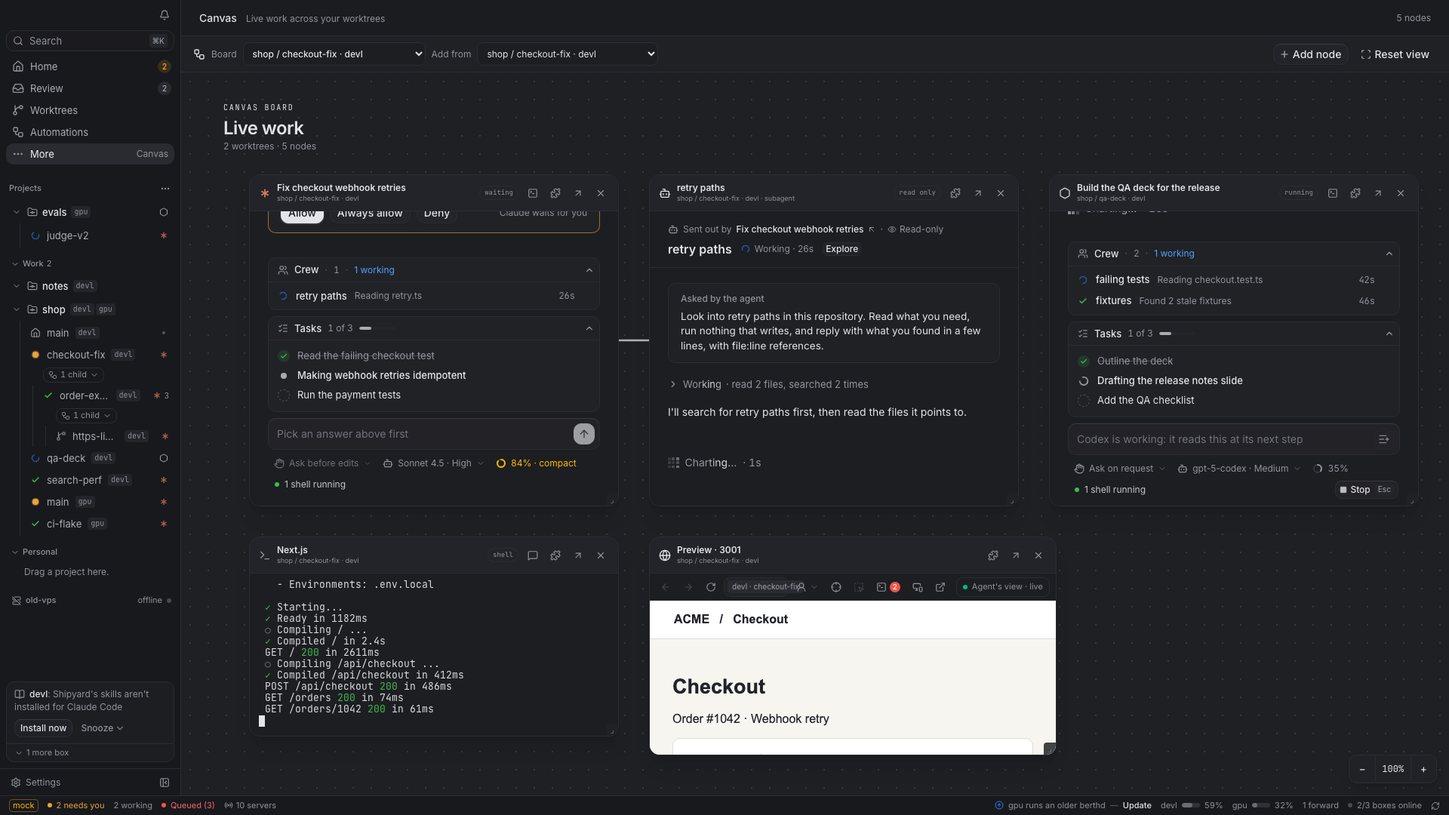
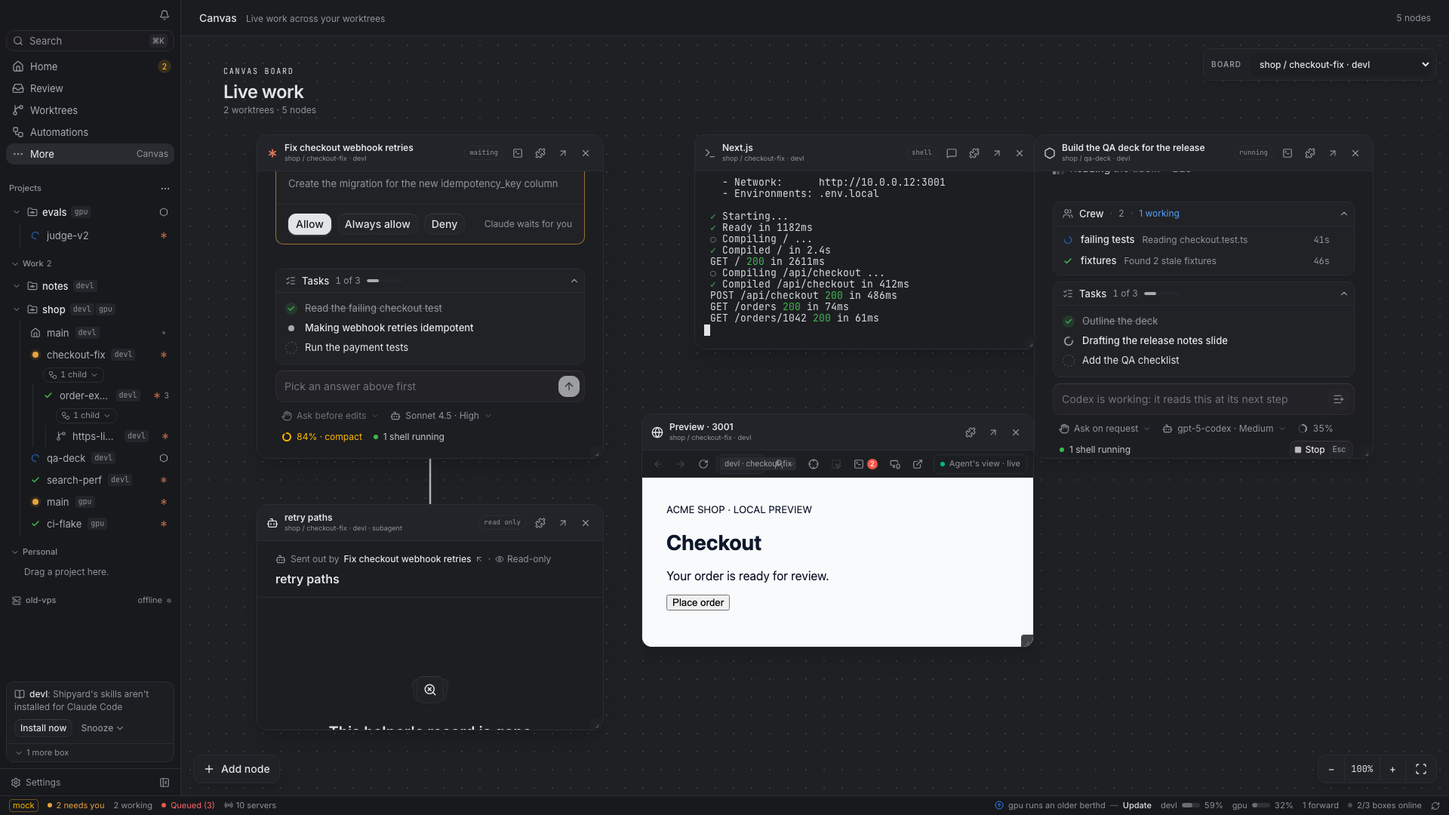
fix(app): keep zoomed canvas chats visible when resized

diff --git a/plugins/canvas/src/index.tsx b/plugins/canvas/src/index.tsx
@@ -1,6 +1,6 @@
 import { definePlugin, useBoxes, useCurrentWorktree, useEvent, useFleetSessions, useStorage, type CurrentWorktree, type ScreenProps, type Service, type Session } from "@berth/plugin";
-import { AgentIcon, BrowserSurface, Button, HelperSurface, Icon, Menu, MenuItem, MenuPopup, MenuSeparator, MenuTrigger, SessionSurface, ViewHeader } from "@berth/plugin/ui";
-import { useEffect, useMemo, useRef, useState, type PointerEvent as ReactPointerEvent } from "react";
+import { AgentIcon, BrowserSurface, Button, HelperSurface, Icon, SessionSurface, ViewHeader } from "@berth/plugin/ui";
+import { useEffect, useMemo, useRef, useState, type PointerEvent as ReactPointerEvent, type WheelEvent as ReactWheelEvent } from "react";
 
 const MIN_ZOOM = 0.55;
 const MAX_ZOOM = 1.5;
@@ -14,6 +14,7 @@ type Link = { from: string; to: string };
 type Board = { nodes: Node[]; links: Link[] };
 type Worktree = CurrentWorktree;
 type Gesture = { id: string; kind: "move" | "resize"; x: number; y: number; node: Node };
+type Picker = { x: number; y: number; at?: { x: number; y: number } };
 
 const keyOf = (w: Worktree) => `${w.box}:${w.path}`;
 const sessionId = (box: string, session: string) => `session:${box}:${session}`;
@@ -50,6 +51,12 @@ function CanvasScreen({ berth }: ScreenProps) {
   const [stamp, setStamp] = useState(0);
   const [savedKey, setSavedKey] = useStorage("selected-worktree", "");
   const [sourceKey, setSourceKey] = useState("");
+  const [picker, setPicker] = useState<Picker>();
+  const [query, setQuery] = useState("");
+  const search = useRef<HTMLInputElement>(null);
+  const spaceDown = useRef(false);
+  const pointerOver = useRef(false);
+  const [spaceHeld, setSpaceHeld] = useState(false);
   const [boards, setBoards] = useStorage<Record<string, Board>>("boards", {});
   const [zoom, setZoom] = useState(1);
   const [pan, setPan] = useState({ x: 0, y: 0 });
@@ -132,12 +139,14 @@ function CanvasScreen({ berth }: ScreenProps) {
     if (linkFrom === id) setLinkFrom(undefined);
   };
   const add = (node: Node) => {
-    if (boardRef.current.nodes.some((n) => n.id === node.id)) { setSelectedNode(node.id); return; }
+    if (boardRef.current.nodes.some((n) => n.id === node.id)) { setSelectedNode(node.id); setPicker(undefined); return; }
     const centerX = (viewport.current?.clientWidth ?? 1100) / 2;
     const centerY = (viewport.current?.clientHeight ?? 700) / 2;
     const offset = boardRef.current.nodes.length % 4 * 34;
-    save({ ...boardRef.current, nodes: [...boardRef.current.nodes, { ...node, x: Math.round((centerX - pan.x) / zoom - node.w / 2 + offset), y: Math.round((centerY - pan.y) / zoom - node.h / 2 + offset) }] });
+    const at = picker?.at;
+    save({ ...boardRef.current, nodes: [...boardRef.current.nodes, { ...node, x: Math.round(at ? at.x - node.w / 2 : (centerX - pan.x) / zoom - node.w / 2 + offset), y: Math.round(at ? at.y - 24 : (centerY - pan.y) / zoom - node.h / 2 + offset) }] });
     setSelectedNode(node.id);
+    setPicker(undefined);
   };
   const addSession = (s: Session, source: Worktree) => add({ id: sessionId(source.box, s.name), kind: "session", box: source.box, source, session: s.name, agent: s.agent, mode: s.agent ? "chat" : "terminal", x: 0, y: 0, w: 480, h: 460 });
   const addPreview = (svc: Service, source: Worktree) => add({ id: previewId(source.box, svc.port), kind: "preview", box: source.box, source, port: svc.port, x: 0, y: 0, w: 570, h: 385 });
@@ -151,9 +160,30 @@ function CanvasScreen({ berth }: ScreenProps) {
     finally { setCreating(false); }
   };
 
-  useEffect(() => { setLinkFrom(undefined); setSelectedNode(undefined); setPan({ x: 0, y: 0 }); setZoom(1); setSourceKey(boardKey); }, [boardKey]);
+  useEffect(() => { setLinkFrom(undefined); setSelectedNode(undefined); setPan({ x: 0, y: 0 }); setZoom(1); setSourceKey(boardKey); setPicker(undefined); }, [boardKey]);
+  useEffect(() => { if (picker) search.current?.focus(); }, [picker?.x, picker?.y]);
+  useEffect(() => {
+    const editable = (target: EventTarget | null) => target instanceof HTMLElement && !!target.closest("input, textarea, select, [contenteditable=true], [role=textbox]");
+    const down = (e: KeyboardEvent) => {
+      if (e.code === "Space" && pointerOver.current && !editable(e.target) && !e.repeat) { spaceDown.current = true; setSpaceHeld(true); e.preventDefault(); }
+      if (e.key === "Escape") { setPicker(undefined); setLinkFrom(undefined); }
+    };
+    const up = (e: KeyboardEvent) => { if (e.code === "Space") { spaceDown.current = false; setSpaceHeld(false); } };
+    const blur = () => { spaceDown.current = false; setSpaceHeld(false); };
+    window.addEventListener("keydown", down);
+    window.addEventListener("keyup", up);
+    window.addEventListener("blur", blur);
+    return () => { window.removeEventListener("keydown", down); window.removeEventListener("keyup", up); window.removeEventListener("blur", blur); };
+  }, []);
+  const openPicker = (clientX?: number, clientY?: number) => {
+    const rect = viewport.current?.getBoundingClientRect();
+    const x = rect && clientX !== undefined ? clientX - rect.left : 24;
+    const y = rect && clientY !== undefined ? clientY - rect.top : (rect?.height ?? 700) - 56;
+    setQuery("");
+    setPicker({ x: clamp(x, 12, Math.max(12, (rect?.width ?? 1100) - 400)), y: clamp(y - 420, 12, Math.max(12, (rect?.height ?? 700) - 440)), at: rect && clientX !== undefined && clientY !== undefined ? { x: (x - pan.x) / zoom, y: (y - pan.y) / zoom } : undefined });
+  };
   const begin = (e: ReactPointerEvent<HTMLElement>, node: Node, kind: Gesture["kind"]) => {
-    if (e.button !== 0 || linkFrom || (e.target as HTMLElement).closest("button")) return;
+    if (e.button !== 0 || spaceDown.current || linkFrom || (e.target as HTMLElement).closest("button")) return;
     gesture.current = { id: node.id, kind, x: e.clientX, y: e.clientY, node };
     e.currentTarget.setPointerCapture(e.pointerId);
     setSelectedNode(node.id);
@@ -185,50 +215,46 @@ function CanvasScreen({ berth }: ScreenProps) {
   const autoLinks = shown.filter((n): n is HelperNode => n.kind === "helper").map((n) => ({ from: sessionId(n.box, n.session), to: n.id })).filter((l) => byId.has(l.from) && !board.links.some((saved) => saved.from === l.from && saved.to === l.to));
   const links = [...board.links, ...autoLinks];
   const worktreeCount = new Set(board.nodes.map((n) => n.source ? keyOf(n.source) : boardKey)).size;
-  const zoomTo = (next: number) => {
+  const matches = (value: string) => value.toLowerCase().includes(query.trim().toLowerCase());
+  const pickerSessions = sourceSessions.filter((s) => matches(`${s.title || s.name} ${s.name}`));
+  const pickerServices = sourceServices.filter((s) => matches(`preview ${s.port}`));
+  const pickerHelpers = sourceSessions.flatMap((s) => (helpers[s.name] ?? []).map((helper) => ({ s, helper }))).filter(({ helper }) => matches(`${helper.name} subagent`));
+  const zoomTo = (next: number, clientX?: number, clientY?: number) => {
     const value = clamp(Math.round(next * 100) / 100, MIN_ZOOM, MAX_ZOOM);
-    const cx = (viewport.current?.clientWidth ?? 0) / 2;
-    const cy = (viewport.current?.clientHeight ?? 0) / 2;
+    const rect = viewport.current?.getBoundingClientRect();
+    const cx = clientX !== undefined && rect ? clientX - rect.left : (viewport.current?.clientWidth ?? 0) / 2;
+    const cy = clientY !== undefined && rect ? clientY - rect.top : (viewport.current?.clientHeight ?? 0) / 2;
     setPan((p) => ({ x: cx - (cx - p.x) * value / zoom, y: cy - (cy - p.y) * value / zoom }));
     setZoom(value);
   };
   const startPan = (e: ReactPointerEvent<HTMLDivElement>) => {
-    if (e.button !== 0 || e.target !== e.currentTarget) return;
+    if (picker || e.button !== 1 && !(spaceDown.current && e.button === 0) && !(e.button === 0 && e.target === e.currentTarget)) return;
     panGesture.current = { x: e.clientX, y: e.clientY, startX: pan.x, startY: pan.y };
     e.currentTarget.setPointerCapture(e.pointerId);
     setSelectedNode(undefined);
+    e.preventDefault();
   };
   const movePan = (e: ReactPointerEvent<HTMLDivElement>) => {
     const g = panGesture.current;
     if (g) setPan({ x: g.startX + e.clientX - g.x, y: g.startY + e.clientY - g.y });
   };
+  const wheel = (e: ReactWheelEvent<HTMLDivElement>) => {
+    if (e.ctrlKey || e.metaKey) { e.preventDefault(); zoomTo(zoom * Math.exp(-e.deltaY * .004), e.clientX, e.clientY); return; }
+    if (e.target !== e.currentTarget) return;
+    e.preventDefault();
+    setPan((p) => ({ x: p.x - (e.shiftKey && !e.deltaX ? e.deltaY : e.deltaX), y: p.y - (e.shiftKey && !e.deltaX ? 0 : e.deltaY) }));
+  };
 
   return <div className="flex h-full min-h-0 flex-col bg-background">
     <ViewHeader title="Canvas" description="Live work across your worktrees" actions={worktree && <span className="text-xs text-muted-foreground">{board.nodes.length} {board.nodes.length === 1 ? "node" : "nodes"}</span>} />
-    <div className="flex min-h-12 shrink-0 items-center gap-2 border-b bg-card/70 px-4">
-      <Icon name="Workflow" className="size-4 text-primary" />
-      <span className="text-xs text-muted-foreground">Board</span>
-      <select aria-label="Canvas worktree" className="max-w-64 min-w-36 rounded-md border bg-background px-2 py-1.5 text-xs font-medium text-foreground" value={boardKey} onChange={(e) => setSavedKey(e.target.value)}>
-        {allWorktrees.map((w) => <option key={keyOf(w)} value={keyOf(w)}>{w.location} / {w.worktree} · {w.box}</option>)}
-      </select>
-      {worktree && <><span className="text-xs text-muted-foreground">Add from</span><select aria-label="Source worktree" className="max-w-64 min-w-36 rounded-md border bg-background px-2 py-1.5 text-xs text-foreground" value={sourceWorktree ? keyOf(sourceWorktree) : ""} onChange={(e) => setSourceKey(e.target.value)}>
-        {allWorktrees.map((w) => <option key={keyOf(w)} value={keyOf(w)}>{w.location} / {w.worktree} · {w.box}</option>)}
-      </select></>}
-      <div className="flex-1" />
-      {createError && <span role="alert" className="max-w-60 truncate text-xs text-destructive">{createError}</span>}
-      {linkFrom && <span className="text-xs text-primary">Choose a node for a visual link · <button className="underline" onClick={() => setLinkFrom(undefined)}>Cancel</button></span>}
-      {sourceWorktree && <Menu><MenuTrigger render={<Button size="sm" variant="outline" />}><Icon name="Plus" className="size-3.5" /> Add node</MenuTrigger><MenuPopup align="end" className="max-h-80 min-w-64 overflow-y-auto">
-        <div className="px-2 py-1.5 text-xs font-medium text-muted-foreground">{sourceWorktree.location} / {sourceWorktree.worktree} · {sourceWorktree.box}</div>
-        <MenuItem disabled={creating} onClick={() => void createTerminal()}><Icon name="SquareTerminal" className="size-3.5" /> New terminal</MenuItem>
-        <MenuSeparator />
-        {sourceSessions.length ? sourceSessions.map((s) => <MenuItem key={s.name} onClick={() => addSession(s, sourceWorktree)}><Icon name={s.agent ? "Bot" : "SquareTerminal"} className="size-3.5" /> <span className="max-w-52 truncate">{s.title || s.name}</span></MenuItem>) : <MenuItem disabled>No sessions in this worktree</MenuItem>}
-        <MenuSeparator />
-        {sourceServices.length ? sourceServices.map((svc) => <MenuItem key={svc.port} onClick={() => addPreview(svc, sourceWorktree)}><Icon name="Globe" className="size-3.5" /> Preview · port {svc.port}</MenuItem>) : <MenuItem disabled>No running previews</MenuItem>}
-        {Object.values(helpers).some((list) => list.length) && <><MenuSeparator /><div className="px-2 py-1.5 text-xs font-medium text-muted-foreground">Subagents · read only</div>{sourceSessions.flatMap((s) => (helpers[s.name] ?? []).map((helper) => <MenuItem key={`${s.name}:${helper.id}`} onClick={() => addHelper(s, helper, sourceWorktree)}><Icon name="Bot" className="size-3.5" /> <span className="max-w-52 truncate">{helper.name}</span></MenuItem>))}</>}
-      </MenuPopup></Menu>}
-      <Button size="sm" variant="ghost" onClick={() => { setPan({ x: 0, y: 0 }); setZoom(1); }}><Icon name="Scan" className="size-3.5" /> Reset view</Button>
-    </div>
-    <div ref={viewport} className="relative min-h-0 flex-1 overflow-hidden bg-muted/20" style={{ backgroundImage: "radial-gradient(color-mix(in oklab, var(--foreground) 13%, transparent) 1px, transparent 1px)", backgroundSize: `${24 * zoom}px ${24 * zoom}px`, backgroundPosition: `${pan.x}px ${pan.y}px` }} onPointerDown={startPan} onPointerMove={movePan} onPointerUp={() => { panGesture.current = undefined; }} onPointerCancel={() => { panGesture.current = undefined; }}>
+    <div ref={viewport} data-testid="canvas-viewport" className={`relative min-h-0 flex-1 overflow-hidden bg-muted/20 ${spaceHeld ? "cursor-grab active:cursor-grabbing" : ""}`} style={{ backgroundImage: "radial-gradient(color-mix(in oklab, var(--foreground) 13%, transparent) 1px, transparent 1px)", backgroundSize: `${24 * zoom}px ${24 * zoom}px`, backgroundPosition: `${pan.x}px ${pan.y}px` }} onPointerEnter={() => { pointerOver.current = true; }} onPointerLeave={() => { pointerOver.current = false; }} onPointerDown={startPan} onPointerMove={movePan} onPointerUp={() => { panGesture.current = undefined; }} onPointerCancel={() => { panGesture.current = undefined; }} onWheel={wheel} onContextMenu={(e) => { if ((e.target as HTMLElement).closest("section")) return; e.preventDefault(); openPicker(e.clientX, e.clientY); }} onDoubleClick={(e) => { if (e.target === e.currentTarget) openPicker(e.clientX, e.clientY); }}>
+      <div className="absolute top-4 right-4 z-20 flex items-center gap-2 rounded-lg border bg-card/95 p-1.5 shadow-md">
+        <span className="px-1 text-[10px] font-semibold uppercase tracking-widest text-muted-foreground">Board</span>
+        <select aria-label="Canvas worktree" className="max-w-60 rounded-md bg-background px-2 py-1.5 text-xs font-medium text-foreground" value={boardKey} onChange={(e) => setSavedKey(e.target.value)}>
+          {allWorktrees.map((w) => <option key={keyOf(w)} value={keyOf(w)}>{w.location} / {w.worktree} · {w.box}</option>)}
+        </select>
+      </div>
+      {linkFrom && <div className="absolute top-4 left-1/2 z-20 -translate-x-1/2 rounded-lg border bg-card px-3 py-2 text-xs text-primary shadow-md">Choose a node for a visual link · <button className="underline" onClick={() => setLinkFrom(undefined)}>Cancel</button></div>}
       {worktree ? <div className="absolute top-0 left-0" style={{ width: 0, height: 0, overflow: "visible", pointerEvents: "none", transform: `translate(${pan.x}px, ${pan.y}px) scale(${zoom})`, transformOrigin: "0 0" }}>
         <div className="pointer-events-none absolute top-10 left-14 w-80"><div className="font-mono text-[10px] tracking-[.18em] text-primary">CANVAS BOARD</div><div className="mt-1 text-2xl font-semibold tracking-tight">Live work</div><div className="text-xs text-muted-foreground">{worktreeCount} {worktreeCount === 1 ? "worktree" : "worktrees"} · {board.nodes.length} {board.nodes.length === 1 ? "node" : "nodes"}</div></div>
         <svg data-testid="canvas-links" className="pointer-events-none absolute top-0 left-0 overflow-visible" width="1" height="1" aria-hidden="true">{links.map((link) => {
@@ -272,7 +298,25 @@ function CanvasScreen({ berth }: ScreenProps) {
         })}
         {!shown.length && <div className="absolute top-52 left-60 flex w-96 flex-col items-center rounded-xl border bg-card/85 px-7 py-8 text-center shadow-lg"><Icon name="Workflow" className="mb-3 size-7 text-primary" /><h2 className="text-base font-semibold">Give this worktree some room</h2><p className="mt-2 text-sm text-muted-foreground">Add sessions, subagents, or previews from any worktree. Your layout stays on this computer.</p><Button size="sm" className="mt-4" onClick={() => void createTerminal()}>New terminal</Button></div>}
       </div> : <div className="flex h-full items-center justify-center text-sm text-muted-foreground">Open a worktree to start its canvas.</div>}
-      <div className="absolute right-4 bottom-4 z-20 flex w-fit items-center overflow-hidden rounded-lg border bg-card shadow-lg"><button aria-label="Zoom out" className="px-3 py-2 text-sm hover:bg-accent" onClick={() => zoomTo(zoom - .1)}>−</button><span className="min-w-12 border-x px-2 py-2 text-center font-mono text-xs">{Math.round(zoom * 100)}%</span><button aria-label="Zoom in" className="px-3 py-2 text-sm hover:bg-accent" onClick={() => zoomTo(zoom + .1)}>+</button></div>
+      {worktree && <button aria-label="Add node" className="absolute bottom-4 left-4 z-20 flex items-center gap-2 rounded-lg border bg-card px-3 py-2 text-sm font-medium shadow-lg hover:bg-accent" onClick={() => openPicker()}><Icon name="Plus" className="size-4" /> Add node</button>}
+      <div className="absolute right-4 bottom-4 z-20 flex w-fit items-center overflow-hidden rounded-lg border bg-card shadow-lg"><button aria-label="Zoom out" className="px-3 py-2 text-sm hover:bg-accent" onClick={() => zoomTo(zoom - .1)}>−</button><span className="min-w-12 border-x px-2 py-2 text-center font-mono text-xs">{Math.round(zoom * 100)}%</span><button aria-label="Zoom in" className="px-3 py-2 text-sm hover:bg-accent" onClick={() => zoomTo(zoom + .1)}>+</button><button aria-label="Reset view" className="border-l px-3 py-2 text-sm hover:bg-accent" onClick={() => { setPan({ x: 0, y: 0 }); setZoom(1); }}><Icon name="Scan" className="size-4" /></button></div>
+      {picker && sourceWorktree && <>
+        <div className="absolute inset-0 z-30" onClick={() => setPicker(undefined)} />
+        <div data-testid="canvas-picker" className="absolute z-40 flex max-h-[min(440px,calc(100%-24px))] w-[min(380px,calc(100%-24px))] flex-col overflow-hidden rounded-xl border bg-card shadow-2xl" style={{ left: picker.x, top: picker.y }} onPointerDown={(e) => e.stopPropagation()} onWheel={(e) => e.stopPropagation()}>
+          <div className="flex items-center gap-2 border-b px-3 py-2.5"><Icon name="Plus" className="size-4 text-primary" /><span className="flex-1 text-sm font-semibold">Add to canvas</span><button aria-label="Close node picker" className="rounded p-1 text-muted-foreground hover:bg-accent" onClick={() => setPicker(undefined)}><Icon name="X" className="size-4" /></button></div>
+          <div className="border-b px-3 py-2"><label className="mb-1 block text-[10px] font-semibold uppercase tracking-wider text-muted-foreground" htmlFor="canvas-source">From worktree</label><select id="canvas-source" aria-label="Source worktree" className="w-full rounded-md border bg-background px-2 py-1.5 text-xs text-foreground" value={keyOf(sourceWorktree)} onChange={(e) => setSourceKey(e.target.value)}>{allWorktrees.map((w) => <option key={keyOf(w)} value={keyOf(w)}>{w.location} / {w.worktree} · {w.box}</option>)}</select></div>
+          <div className="flex items-center gap-2 border-b px-3 py-2"><Icon name="Search" className="size-3.5 text-muted-foreground" /><input ref={search} aria-label="Find canvas node" value={query} onChange={(e) => setQuery(e.target.value)} placeholder="Find chats, terminals, previews…" className="min-w-0 flex-1 bg-transparent text-xs outline-none placeholder:text-muted-foreground" /></div>
+          <div className="min-h-0 overflow-y-auto p-1.5">
+            {matches("new terminal") && <button className="flex w-full items-center gap-2 rounded-md px-2 py-2 text-left text-xs hover:bg-accent disabled:opacity-50" disabled={creating} onClick={() => void createTerminal()}><Icon name="SquareTerminal" className="size-4 text-primary" /><span className="flex-1">New terminal</span><span className="text-[10px] text-muted-foreground">Create</span></button>}
+            {pickerSessions.length > 0 && <><div className="px-2 pt-2 pb-1 text-[10px] font-semibold uppercase tracking-wider text-muted-foreground">Chats and terminals</div>{pickerSessions.map((s) => <button key={s.name} className="flex w-full items-center gap-2 rounded-md px-2 py-2 text-left text-xs hover:bg-accent" onClick={() => addSession(s, sourceWorktree)}><Icon name={s.agent ? "Bot" : "SquareTerminal"} className="size-4 shrink-0 text-primary" /><span className="min-w-0 flex-1 truncate">{s.title || s.name}</span></button>)}</>}
+            {pickerServices.length > 0 && <><div className="px-2 pt-2 pb-1 text-[10px] font-semibold uppercase tracking-wider text-muted-foreground">Previews</div>{pickerServices.map((svc) => <button key={svc.port} className="flex w-full items-center gap-2 rounded-md px-2 py-2 text-left text-xs hover:bg-accent" onClick={() => addPreview(svc, sourceWorktree)}><Icon name="Globe" className="size-4 text-primary" />Preview · port {svc.port}</button>)}</>}
+            {pickerHelpers.length > 0 && <><div className="px-2 pt-2 pb-1 text-[10px] font-semibold uppercase tracking-wider text-muted-foreground">Subagents · read only</div>{pickerHelpers.map(({ s, helper }) => <button key={`${s.name}:${helper.id}`} className="flex w-full items-center gap-2 rounded-md px-2 py-2 text-left text-xs hover:bg-accent" onClick={() => addHelper(s, helper, sourceWorktree)}><Icon name="Bot" className="size-4 text-primary" /><span className="min-w-0 flex-1 truncate">{helper.name}</span></button>)}</>}
+            {!matches("new terminal") && !pickerSessions.length && !pickerServices.length && !pickerHelpers.length && <p className="px-2 py-5 text-center text-xs text-muted-foreground">No matching nodes in this worktree</p>}
+          </div>
+          {createError && <div role="alert" className="border-t px-3 py-2 text-xs text-destructive">{createError}</div>}
+          <div className="border-t px-3 py-2 text-[10px] text-muted-foreground">Right click the canvas to add at a spot · Esc to close</div>
+        </div>
+      </>}
     </div>
   </div>;
 }

diff --git a/app/e2e/canvas.spec.ts b/app/e2e/canvas.spec.ts
@@ -52,7 +52,7 @@ test("canvas arranges live work and remembers edits", async ({ app }) => {
   expect(Object.values(restored)[0].nodes.find((n) => n.id === "session:devl:checkout-fix-claude")?.x).toBeGreaterThan(150);
 
   await app.page.getByRole("button", { name: "Add node" }).click();
-  await app.page.getByRole("menuitem", { name: "Preview · port 5555" }).click();
+  await app.page.getByTestId("canvas-picker").getByRole("button", { name: "Preview · port 5555" }).click();
   const extra = app.page.locator('section[aria-label="Preview · 5555 canvas node"]');
   await expect(extra).toBeVisible();
   await extra.getByRole("button", { name: "Remove node" }).click();
@@ -64,18 +64,69 @@ test("canvas arranges live work and remembers edits", async ({ app }) => {
   await app.page.getByRole("button", { name: "Zoom in" }).click();
   await expect(app.page.getByText("110%", { exact: true })).toBeVisible();
   const position = await agent.boundingBox();
-  await app.page.mouse.move(300, 830);
+  await app.page.mouse.move(550, 800);
   await app.page.mouse.down();
-  await app.page.mouse.move(370, 860, { steps: 5 });
+  await app.page.mouse.move(620, 830, { steps: 5 });
   await app.page.mouse.up();
   await expect.poll(async () => (await agent.boundingBox())?.x ?? 0).toBeGreaterThan(position!.x + 55);
 
+  const afterDrag = await agent.boundingBox();
+  await app.page.mouse.move(550, 800);
+  await app.page.mouse.wheel(0, 100);
+  await expect.poll(async () => (await agent.boundingBox())?.y ?? 0).toBeLessThan(afterDrag!.y - 50);
+  await app.page.keyboard.down("Control");
+  await app.page.mouse.wheel(0, 100);
+  await app.page.keyboard.up("Control");
+  await expect(app.page.getByText("74%", { exact: true })).toBeVisible();
+  const beforeMiddle = await agent.boundingBox();
+  await app.page.mouse.move(beforeMiddle!.x + 80, beforeMiddle!.y + 15);
+  await app.page.mouse.down({ button: "middle" });
+  await app.page.mouse.move(beforeMiddle!.x + 140, beforeMiddle!.y + 45, { steps: 5 });
+  await app.page.mouse.up({ button: "middle" });
+  await expect.poll(async () => (await agent.boundingBox())?.x ?? 0).toBeGreaterThan(beforeMiddle!.x + 45);
+  const beforeSpace = await agent.boundingBox();
+  await app.page.keyboard.down("Space");
+  await app.page.mouse.move(beforeSpace!.x + 80, beforeSpace!.y + 15);
+  await app.page.mouse.down();
+  await app.page.mouse.move(beforeSpace!.x + 135, beforeSpace!.y + 15, { steps: 5 });
+  await app.page.mouse.up();
+  await app.page.keyboard.up("Space");
+  await expect.poll(async () => (await agent.boundingBox())?.x ?? 0).toBeGreaterThan(beforeSpace!.x + 40);
+
+  await app.page.mouse.click(620, 790, { button: "right" });
+  await expect(app.page.getByTestId("canvas-picker")).toBeVisible();
+  await app.page.getByRole("textbox", { name: "Find canvas node" }).fill("5555");
+  await expect(app.page.getByTestId("canvas-picker").getByRole("button", { name: "Preview · port 5555" })).toBeVisible();
+  await expect(app.page.getByTestId("canvas-picker").getByRole("button", { name: "New terminal" })).toHaveCount(0);
+  await app.page.keyboard.press("Escape");
+
   await app.page.getByRole("button", { name: "Add node" }).click();
-  await app.page.getByRole("menuitem", { name: "New terminal" }).click();
+  await app.page.getByTestId("canvas-picker").getByRole("button", { name: "New terminal" }).click();
   await expect.poll(async () => {
     const saved = await app.stored("berth.plugin.canvas.boards") as typeof restored;
     return Object.values(saved)[0].nodes.length;
   }).toBe(4);
+});
+
+test("resizing a zoomed canvas chat keeps long conversation rows in view", async ({ app }) => {
+  mockOnly();
+  await app.open({ params: { long: "5000" } });
+  await app.openWorktree("devl/checkout-fix");
+  await app.page.getByRole("button", { name: "More", exact: true }).click();
+  await app.page.getByRole("menuitem", { name: "Canvas" }).click();
+  const agent = app.page.locator('section[aria-label="Fix checkout webhook retries canvas node"]');
+  const rows = agent.locator('[role="listitem"][data-chat-row]');
+  await expect.poll(() => rows.count()).toBeGreaterThan(0);
+  for (let i = 0; i < 4; i++) await app.page.getByRole("button", { name: "Zoom out" }).click();
+  const handle = agent.getByRole("button", { name: "Resize Fix checkout webhook retries" });
+  const before = await handle.boundingBox();
+  expect(before).not.toBeNull();
+  await app.page.mouse.move(before!.x + before!.width / 2, before!.y + before!.height / 2);
+  await app.page.mouse.down();
+  await app.page.mouse.move(before!.x + 100, before!.y + 85, { steps: 8 });
+  await app.page.mouse.up();
+  await expect.poll(() => rows.count()).toBeGreaterThan(0);
+  await expect(rows.last()).toBeInViewport();
 });
 
 test("canvas combines worktrees and gives subagents their own nodes", async ({ app }) => {
@@ -88,9 +139,9 @@ test("canvas combines worktrees and gives subagents their own nodes", async ({ a
   const board = app.page.getByRole("combobox", { name: "Canvas worktree" });
   const source = app.page.getByRole("combobox", { name: "Source worktree" });
   await expect(board).toHaveValue("devl:/home/me/work/shop-checkout-fix");
-  await source.selectOption("devl:/home/me/work/shop-qa-deck");
   await app.page.getByRole("button", { name: "Add node" }).click();
-  await app.page.getByRole("menuitem", { name: "Build the QA deck for the release" }).click();
+  await source.selectOption("devl:/home/me/work/shop-qa-deck");
+  await app.page.getByTestId("canvas-picker").getByRole("button", { name: "Build the QA deck for the release" }).click();
   const otherAgent = app.page.locator('section[aria-label="Build the QA deck for the release canvas node"]');
   await expect(otherAgent).toBeVisible();
   await expect(otherAgent).toContainText("shop / qa-deck · devl");
@@ -98,7 +149,7 @@ test("canvas combines worktrees and gives subagents their own nodes", async ({ a
   await expect(app.page.locator('section[aria-label="Fix checkout webhook retries canvas node"]')).toContainText("shop / checkout-fix · devl");
 
   await app.page.getByRole("button", { name: "Add node" }).click();
-  await app.page.getByRole("menuitem", { name: "Preview · port 4789" }).click();
+  await app.page.getByTestId("canvas-picker").getByRole("button", { name: "Preview · port 4789" }).click();
   const otherPreview = app.page.locator('section[aria-label="Preview · 4789 canvas node"]');
   await expect(otherPreview).toContainText("shop / qa-deck · devl");
 
@@ -107,15 +158,17 @@ test("canvas combines worktrees and gives subagents their own nodes", async ({ a
       { id: "canvas-helper-1", name: "Explore: retry paths", state: "running", doing: "Reading retry.ts", ago: 25 },
     ]);
   });
+  await app.page.getByRole("button", { name: "Add node" }).click();
   await source.selectOption("devl:/home/me/work/shop-checkout-fix");
+  await app.page.keyboard.press("Escape");
   await expect.poll(async () => {
     await app.page.getByRole("button", { name: "Add node" }).click();
-    const found = await app.page.getByRole("menuitem", { name: "retry paths" }).count();
+    const found = await app.page.getByTestId("canvas-picker").getByRole("button", { name: "retry paths" }).count();
     await app.page.keyboard.press("Escape");
     return found;
   }, { timeout: 12_000 }).toBe(1);
   await app.page.getByRole("button", { name: "Add node" }).click();
-  await app.page.getByRole("menuitem", { name: "retry paths" }).click();
+  await app.page.getByTestId("canvas-picker").getByRole("button", { name: "retry paths" }).click();
   const helper = app.page.locator('section[aria-label="retry paths canvas node"]');
   await expect(helper).toContainText("subagent");
   await expect(helper.getByTestId("helper")).toHaveAttribute("data-state", "running");

diff --git a/app/src/components/conversation/chat-list.tsx b/app/src/components/conversation/chat-list.tsx
@@ -69,7 +69,13 @@ export function ChatList<T>({ rows, rowKey, estimate, render, header, tail, grew
     const sc = scroller;
     const el = top.current;
     if (!sc || !el) return;
-    const measure = () => setMargin(Math.round(el.getBoundingClientRect().bottom - sc.getBoundingClientRect().top + sc.scrollTop));
+    const measure = () => {
+      // DOM scroll offsets use layout pixels; rects use screen pixels and
+      // include a canvas node's zoom transform. Keep both in the same units.
+      const rect = sc.getBoundingClientRect();
+      const scale = sc.offsetHeight ? rect.height / sc.offsetHeight : 1;
+      setMargin(Math.round((el.getBoundingClientRect().bottom - rect.top) / scale + sc.scrollTop));
+    };
     measure();
     const ro = new ResizeObserver(measure);
     ro.observe(el);
@@ -141,6 +147,22 @@ export function ChatList<T>({ rows, rowKey, estimate, render, header, tail, grew
   // Following the foot: true until the person scrolls up to read.
   const pinned = useRef(true);
   const userAt = useRef(0);
+  // A canvas node can change width without a window resize. The old row
+  // measurements then describe a different line wrap, so the virtualizer can
+  // draw rows far above the visible part of a long conversation.
+  useEffect(() => {
+    const sc = scroller;
+    if (!sc) return;
+    let width = sc.clientWidth;
+    const ro = new ResizeObserver(() => {
+      if (sc.clientWidth === width) return;
+      width = sc.clientWidth;
+      v.measure();
+      if (pinned.current) requestAnimationFrame(() => { sc.scrollTop = sc.scrollHeight; });
+    });
+    ro.observe(sc);
+    return () => ro.disconnect();
+  }, [scroller, v]);
   const nearTop = useRef(onNearTop);
   nearTop.current = onNearTop;
   useEffect(() => {

diff --git a/plugins/canvas/README.md b/plugins/canvas/README.md
@@ -3,3 +3,5 @@
 A built-in Shipyard plugin that gives each worktree a spatial workspace. Choose a board, then pick any source worktree to add live conversations, terminals, read-only subagent conversations, or browser previews. Every node shows its source. Start a terminal, drag, resize, pan, zoom, and make visual links between nodes. Layouts are stored locally by board worktree. Opening a node in the usual workspace is one click away.
 
 Subagents connect to their parent automatically. Other links are visual references you can add between nodes; they do not send prompts or commands between sessions.
+
+Use **Add node** or right click empty canvas to open the searchable node picker. Choose its source worktree there. Two-finger scrolling pans empty canvas; pinch or Ctrl/⌘-scroll zooms around the pointer. Drag with the middle mouse button or hold Space while dragging to pan over nodes. The zoom controls and board picker stay in the canvas corners.
